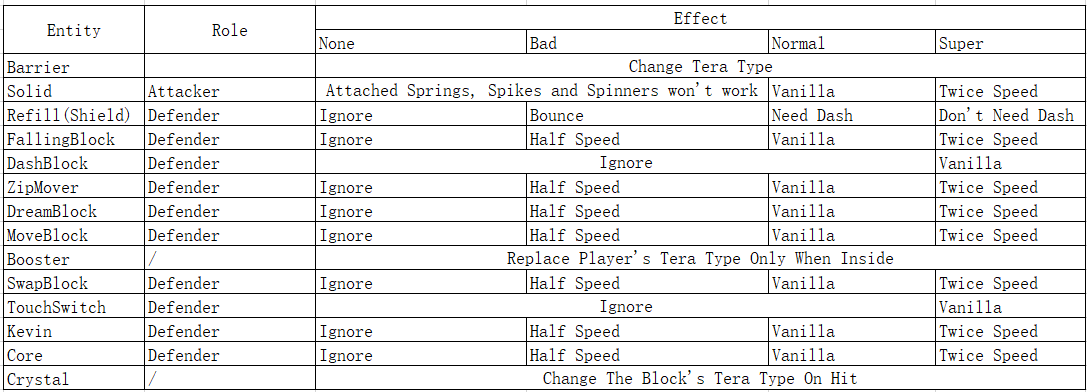
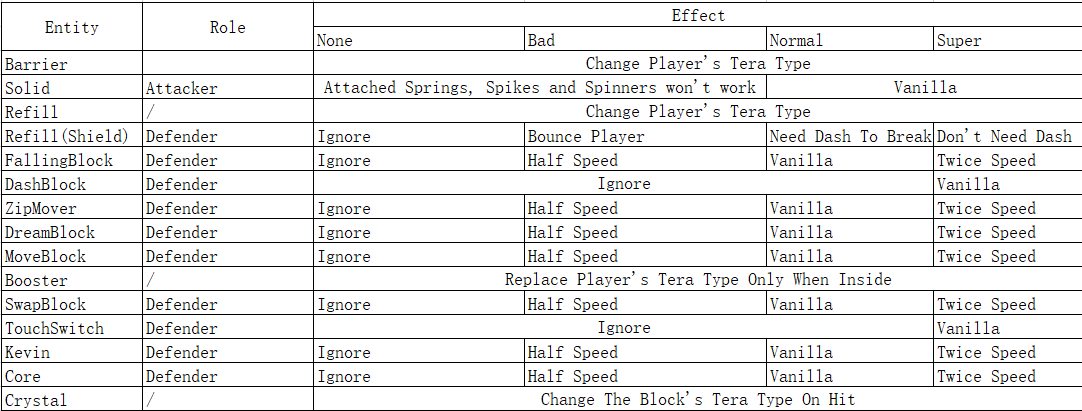
Update ReadMe

Changed region(s): [[0.0, 0.0, 1.0, 1.0], [0.183, 0.0612, 0.244, 0.0918]]

diff --git a/README.md b/README.md
@@ -3,5 +3,7 @@ Add Tera logic to the game.
 Madeline will have a tera type, and she can interact with other tera entities. The key point is to figure out who is the attacker and who is the defender and then get a tera effect. Tera entities behave differently according to the tera effect. Here is the detail list.  
 ![immagine](Effect.png)
 Take Kevin as an example. It can act as a defender, so Madeline is the attacker. If Kevin is Ghost type and Madeline is Dark type, the effect will be super effective. So the Kevin will move twice faster after Madeline dashes to it. However if Kevin is Fairy type and Madeline is Dragon type, there will be no effect and Kevin won't be activated.  
+Also Kevin is a solid block, so it can act as a attacker as well. If Kevin is Grass Type and Madeline is Dragon Type, the effect will be not good. So spikes attached on the Kevin won't hurt Madeline, and springs on the Kevin won't bounce Madeline.
+What's more, if Kevin hit a falling block, then Kevin is the attacker and falling block is the defender. If there is no effect then the falling block won't fall.
 In conclusion, if the entity is a block and has move speed (e.g. Zip Mover), it will get different speed according to the effect. If the entity if a block and can be triggered (e.g. Dash Block), it can only be triggered when the effect is super effective.  
 Normally the game limit Madeline's lift boost speed from blocks up to 250f at X and -130f at Y. The lift boost speed form tera blocks can break this rule.
